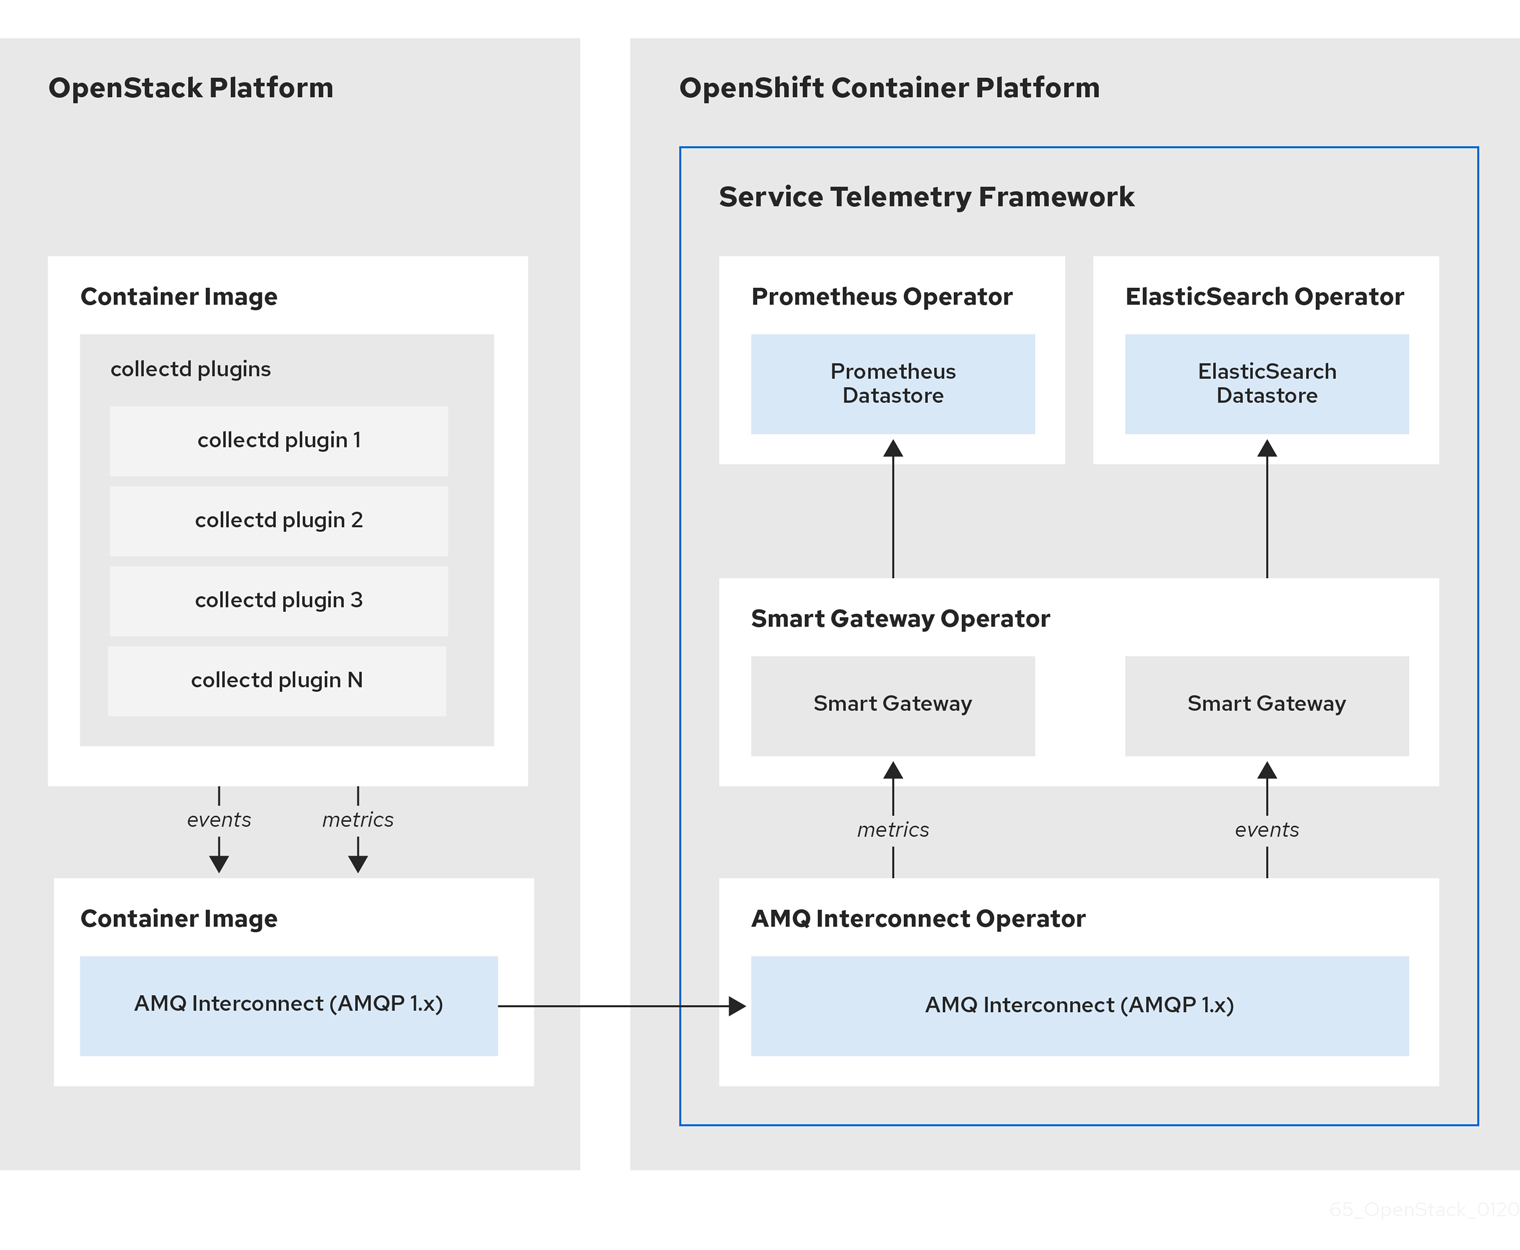
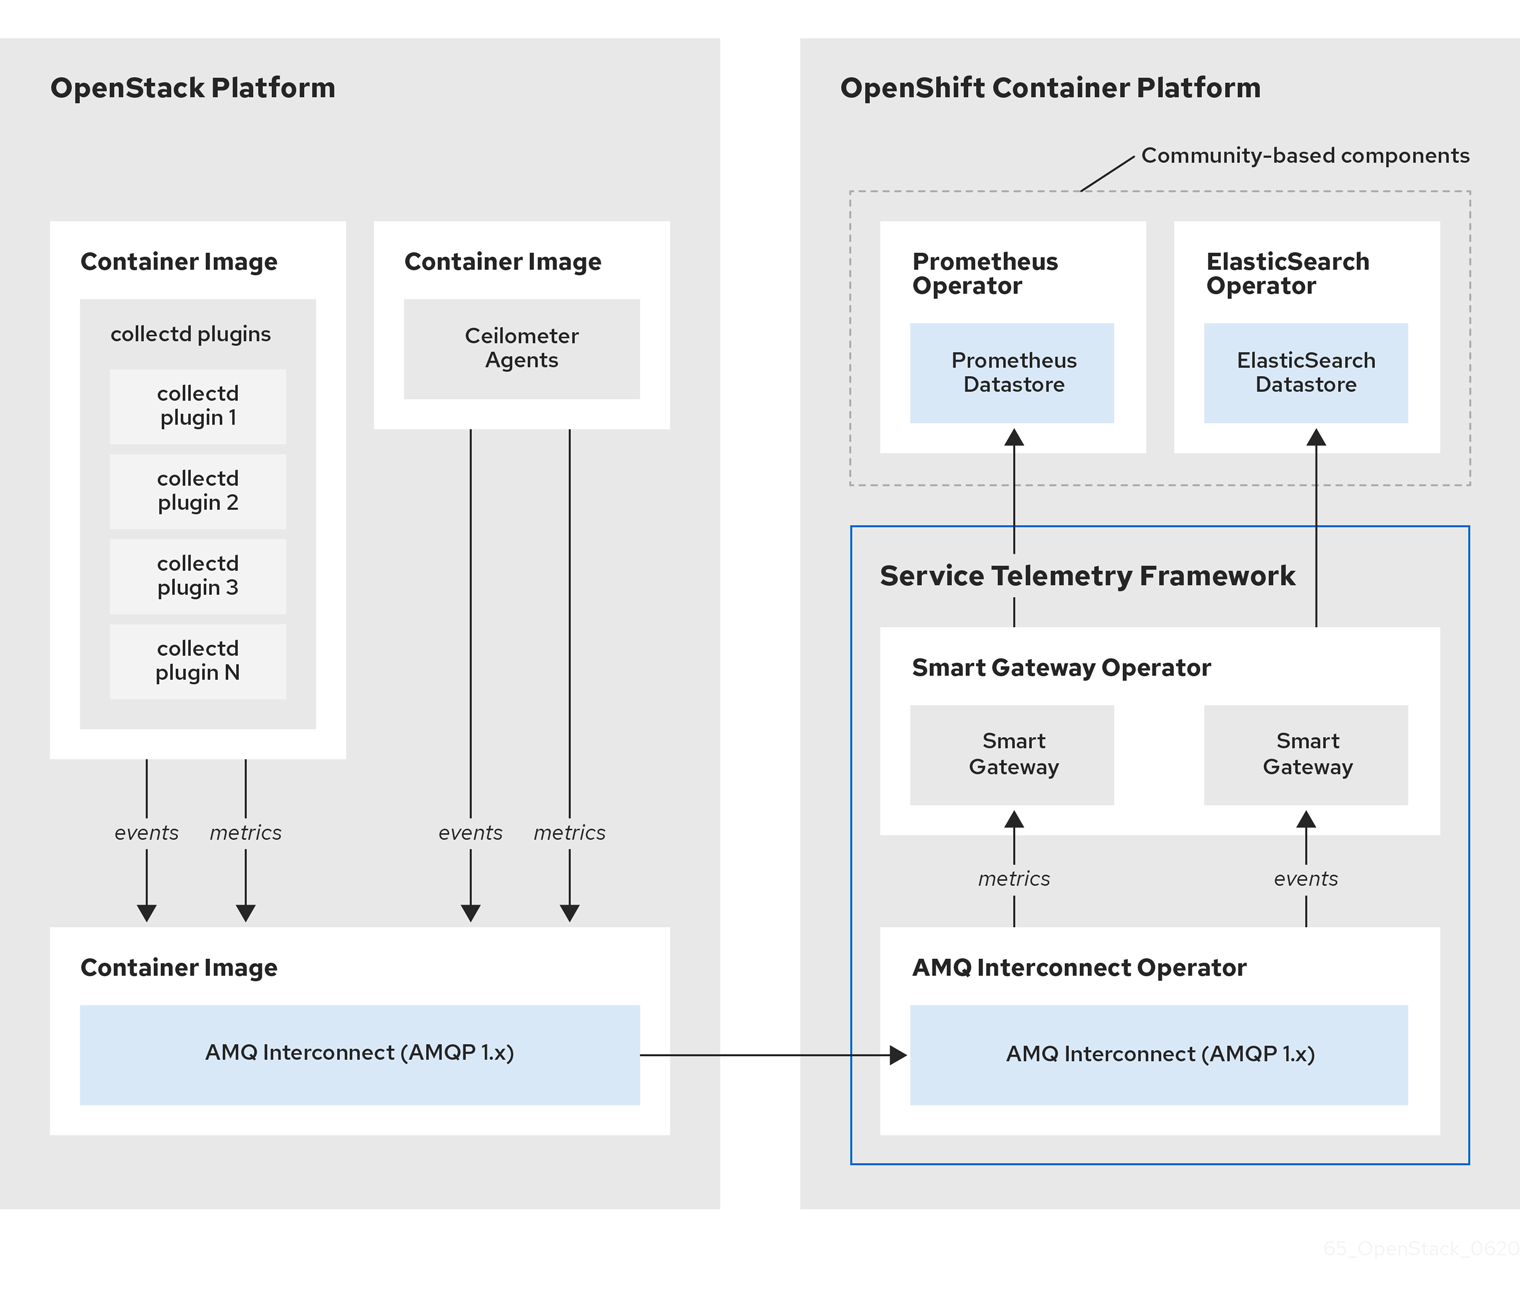
[ci skip] publishing updated documentation...

diff --git a/index.html b/index.html
@@ -523,8 +523,10 @@ STF provides metrics and events data collection from OpenStack infrastructure, f
 <div class="title">Figure 1. Service Telemetry Framework architecture overview</div>
 </div>
 <div class="paragraph">
-<p>On the client side, collectd collects high-resolution metrics. collectd delivers the data to Prometheus by using the AMQP1 plugin, which places the data onto the
-message bus. On the server side, a Golang application called the Smart Gateway takes the data stream from the bus and exposes it as a local scrape endpoint for Prometheus.</p>
+<p>For metrics, on the client side, collectd collects high-resolution metrics. collectd delivers the data to Prometheus by using the AMQP1 plugin, which places the data onto the message bus. On the server side, a Golang application called the Smart Gateway takes the data stream from the bus and exposes it as a local scrape endpoint for Prometheus.</p>
+</div>
+<div class="paragraph">
+<p>If you plan to collect and store events, collectd or Ceilometer delivers event data to the server side by using the AMQP1 plugin, which places the data onto the message bus. A second (or another) Smart Gateway writes the data to the ElasticSearch datastore.</p>
 </div>
 <div class="paragraph">
 <p>Server-side STF monitoring infrastructure consists of the following layers:</p>
@@ -4255,7 +4257,7 @@ collectd-multimeter</p>
 </div>
 <div id="footer">
 <div id="footer-text">
-Last updated 2020-06-24 09:59:18 UTC
+Last updated 2020-06-24 18:58:59 UTC
 </div>
 </div>
 </body>
